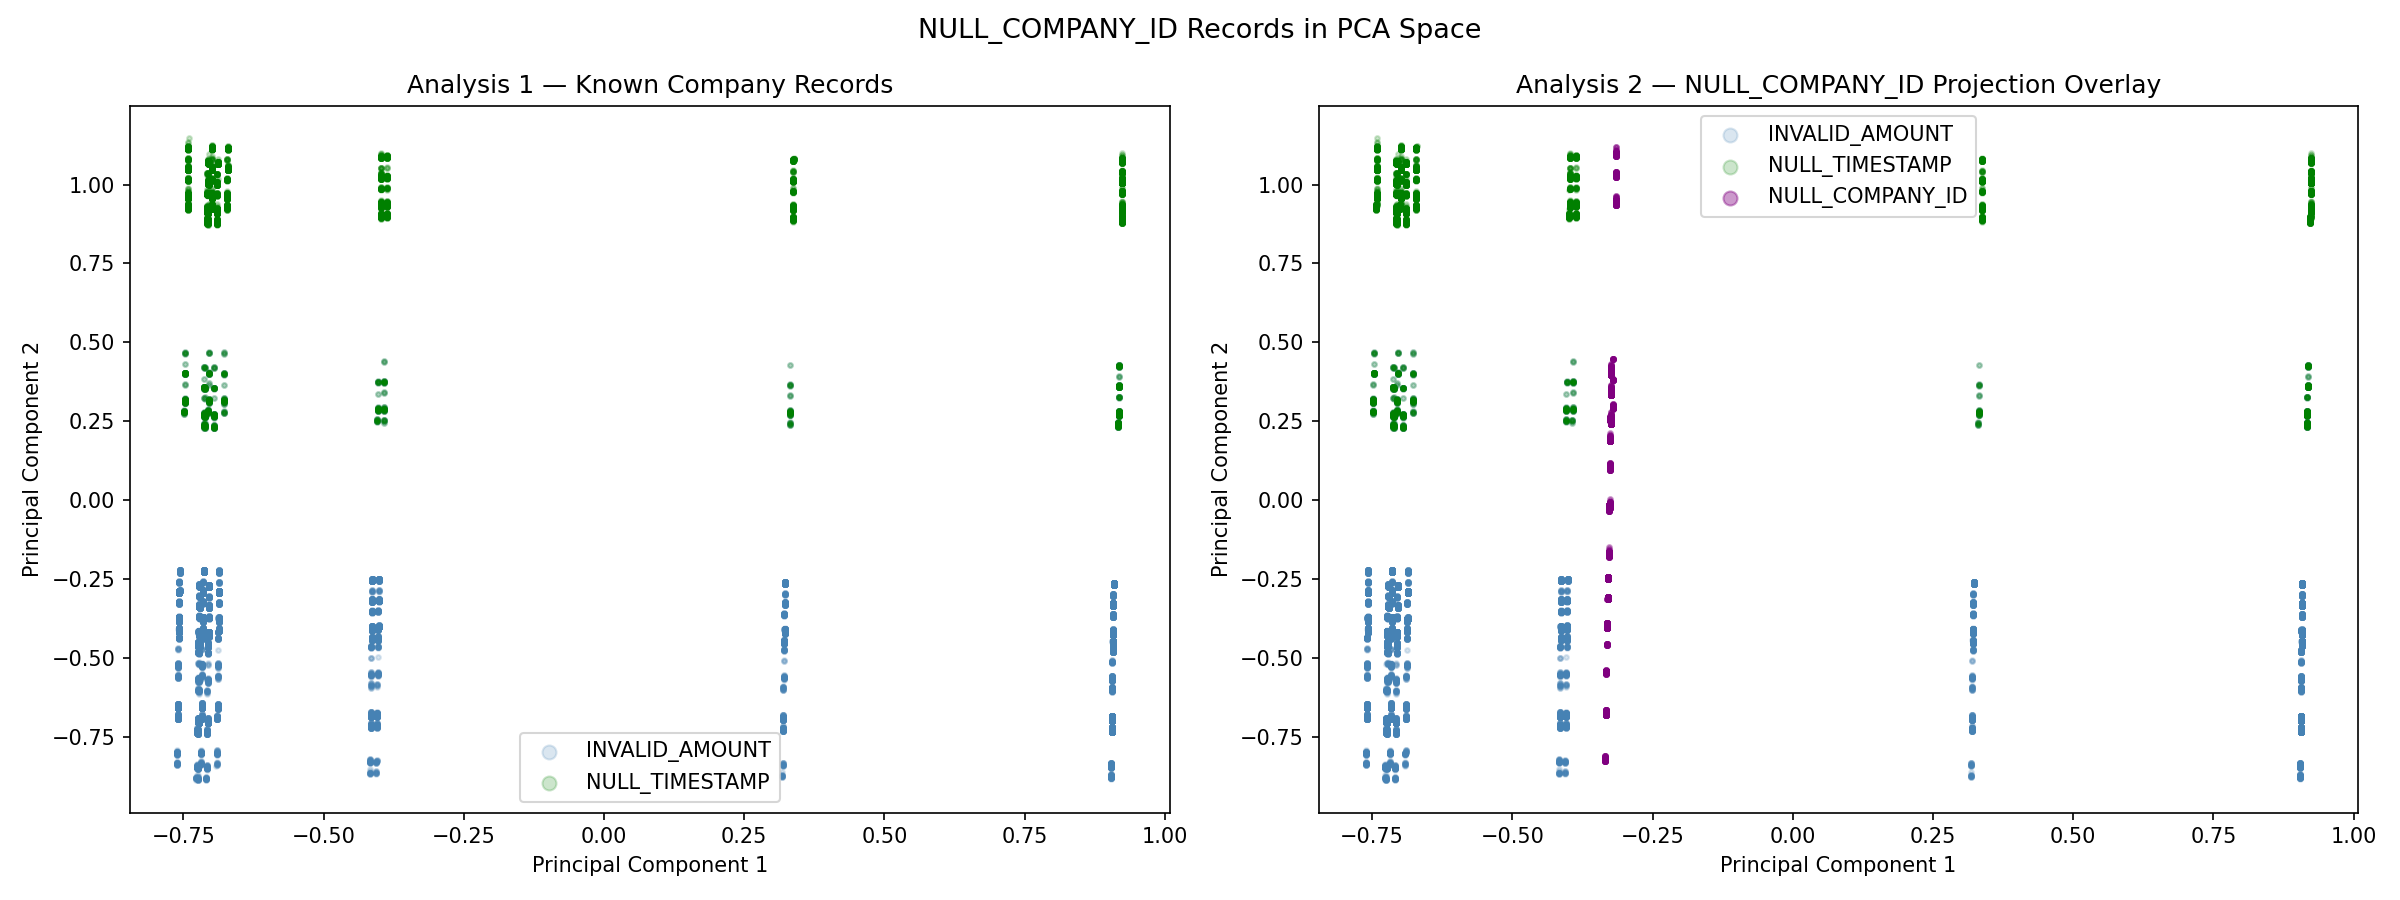
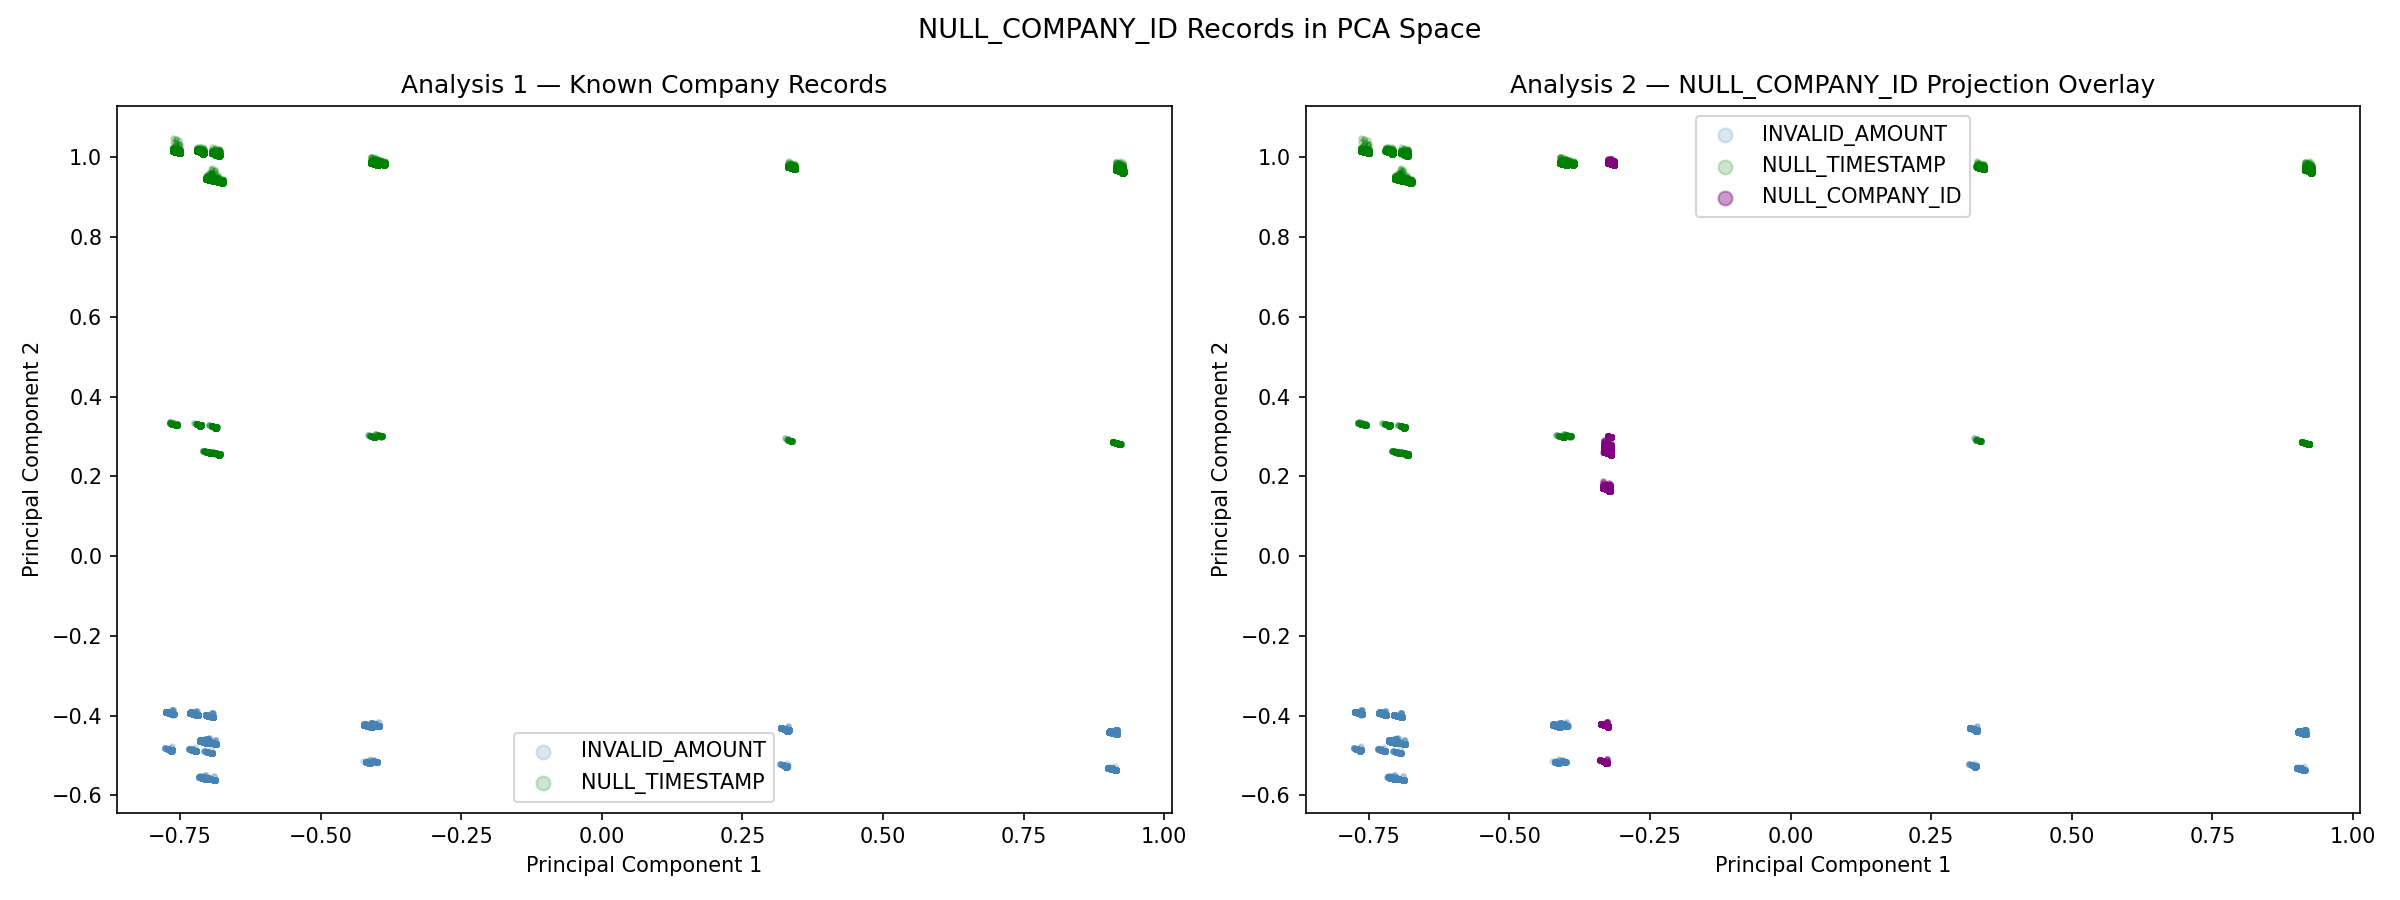
Include t-SNE plot

diff --git a/scripts/NAP_ingestion/src/ml_analysis.py b/scripts/NAP_ingestion/src/ml_analysis.py
@@ -12,6 +12,7 @@
 
 import numpy as np
 import pandas as pd
+from sklearn.manifold import TSNE
 from sklearn.preprocessing import MinMaxScaler
 from sklearn.decomposition import PCA
 from sklearn.cluster import KMeans
@@ -216,6 +217,80 @@ def preprocess(df: pd.DataFrame) -> tuple[pd.DataFrame, pd.Series, pd.DataFrame]
 # ============================================================
 # STAGE 3 — PCA SUPPORT FUNCTIONS
 # ============================================================
+
+def plot_tsne(
+    X1_reduced: np.ndarray,
+    y1: pd.Series,
+    X1: pd.DataFrame,
+) -> None:
+    """
+    Three-panel t-SNE visualization of PCA-reduced Analysis 1 data.
+
+    Fits t-SNE on X1_reduced and plots the embedding colored three ways:
+      - Left:   failure code (INVALID_AMOUNT / NULL_TIMESTAMP)
+      - Centre: noise level (low / medium / high)
+      - Right:  failure count (scaled 0–1 bucketed into three groups)
+
+    Args:
+        X1_reduced: PCA-transformed Analysis 1 array, shape (n_samples, n_components)
+        y1:         failure_code Series aligned to X1_reduced rows
+        X1:         Analysis 1 feature DataFrame (must contain noise_level and
+                    failure_count columns, already filtered and reset_index'd)
+    """
+    print("Fitting t-SNE on Analysis 1 PCA-reduced data (this may take a few minutes)...")
+    tsne = TSNE(n_components=2, random_state=42, perplexity=30)
+    X1_tsne = tsne.fit_transform(X1_reduced)
+
+    fig, axes = plt.subplots(1, 3, figsize=(20, 6))
+
+    # --- Plot 1: colored by failure code
+    colors_failure = {
+        'INVALID_AMOUNT': 'steelblue',
+        'NULL_TIMESTAMP': 'green',
+    }
+    ax = axes[0]
+    for failure_code, color in colors_failure.items():
+        mask = y1 == failure_code
+        ax.scatter(X1_tsne[mask, 0], X1_tsne[mask, 1],
+                   c=color, label=failure_code, alpha=0.3, s=5)
+    ax.set_title('t-SNE — Colored by Failure Code')
+    ax.set_xlabel('t-SNE Dimension 1')
+    ax.set_ylabel('t-SNE Dimension 2')
+    ax.legend(markerscale=3)
+
+    # --- Plot 2: colored by noise level
+    noise_colors = {0.0: 'green', 0.5: 'orange', 1.0: 'red'}
+    noise_labels = {0.0: 'low', 0.5: 'medium', 1.0: 'high'}
+    noise_vals = X1['noise_level'].reset_index(drop=True)
+    ax = axes[1]
+    for val, color in noise_colors.items():
+        mask = noise_vals == val
+        ax.scatter(X1_tsne[mask, 0], X1_tsne[mask, 1],
+                   c=color, label=noise_labels[val], alpha=0.3, s=5)
+    ax.set_title('t-SNE — Colored by Noise Level')
+    ax.set_xlabel('t-SNE Dimension 1')
+    ax.set_ylabel('t-SNE Dimension 2')
+    ax.legend(markerscale=3)
+
+    # --- Plot 3: colored by failure count
+    failure_count_vals = X1['failure_count'].reset_index(drop=True)
+    colors_fc = {0.0: 'steelblue', 0.5: 'darkorange', 1.0: 'red'}
+    labels_fc = {0.0: 'single failure', 0.5: 'two failures', 1.0: 'three failures'}
+    ax = axes[2]
+    for val, color in colors_fc.items():
+        mask = (failure_count_vals - failure_count_vals.min()) / \
+               (failure_count_vals.max() - failure_count_vals.min()) == val
+        ax.scatter(X1_tsne[mask, 0], X1_tsne[mask, 1],
+                   c=color, label=labels_fc[val], alpha=0.3, s=5)
+    ax.set_title('t-SNE — Colored by Failure Count')
+    ax.set_xlabel('t-SNE Dimension 1')
+    ax.set_ylabel('t-SNE Dimension 2')
+    ax.legend(markerscale=3)
+
+    plt.suptitle('t-SNE Visualization of PCA-Reduced Quarantine Records', fontsize=13)
+    plt.tight_layout()
+    plt.savefig('tsne_analysis1.png', dpi=150)
+    plt.show()
 
 def plot_scree(explained_variance: np.ndarray, cumulative_variance: np.ndarray) -> None:
     """
@@ -662,22 +737,25 @@ def run_pca(
     pca_full, explained_variance, cumulative_variance = fit_full_pca(X1)
 
     # --- Scree plot: explained variance per component
-    plot_scree(explained_variance, cumulative_variance)
+    #plot_scree(explained_variance, cumulative_variance)
 
     # --- Refit PCA with chosen n_components
     pca, X1_reduced = refit_pca(X1)
 
     # --- 2D scatter plot: PC1 vs PC2 colored by failure_code
-    plot_scatter(X1_reduced, y1)
+    #plot_scatter(X1_reduced, y1)
 
     # --- Loadings heatmap: original features vs top components
-    plot_loadings(pca, feature_names=list(X1.columns))
+    #plot_loadings(pca, feature_names=list(X1.columns))
 
     # --- Project Analysis 2 records into PCA space
     X2_reduced = project_analysis2(pca, X2, X1_reduced, y1)
 
     # --- K-means clustering on PCA-reduced Analysis 1 data
-    run_kmeans(X1_reduced, y1)
+    #run_kmeans(X1_reduced, y1)
+
+    # --- t-SNE plot
+    plot_tsne(X1_reduced, y1, X1)
 
 
 # ============================================================